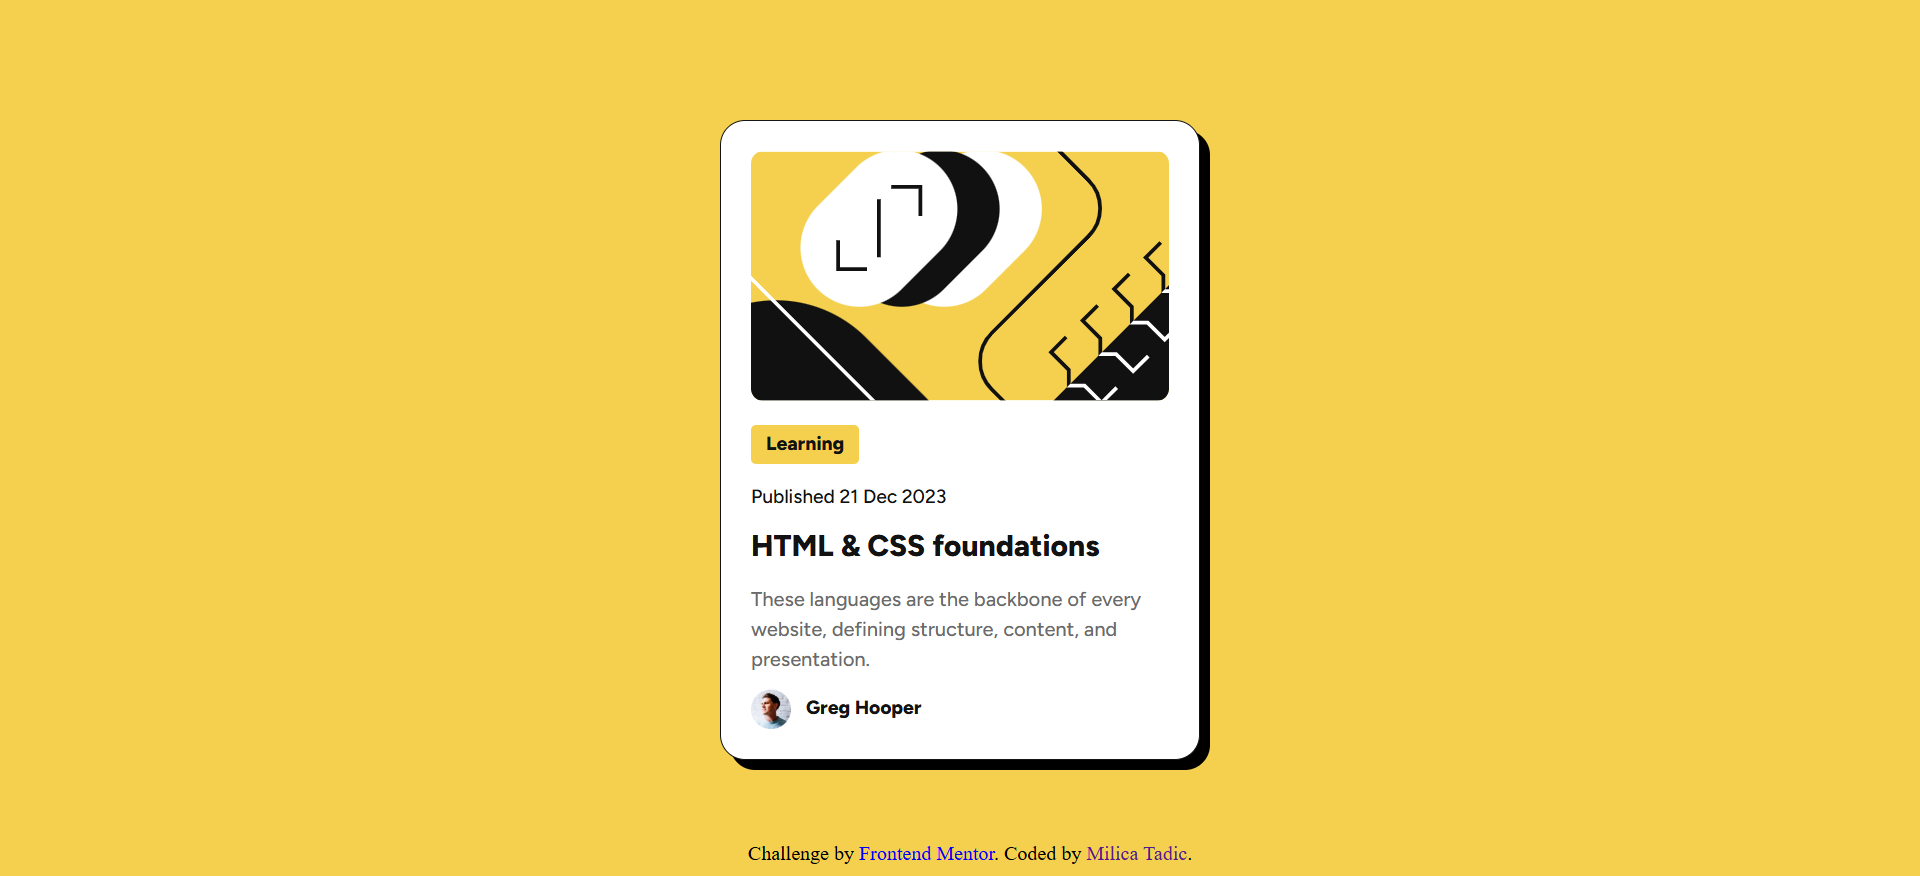
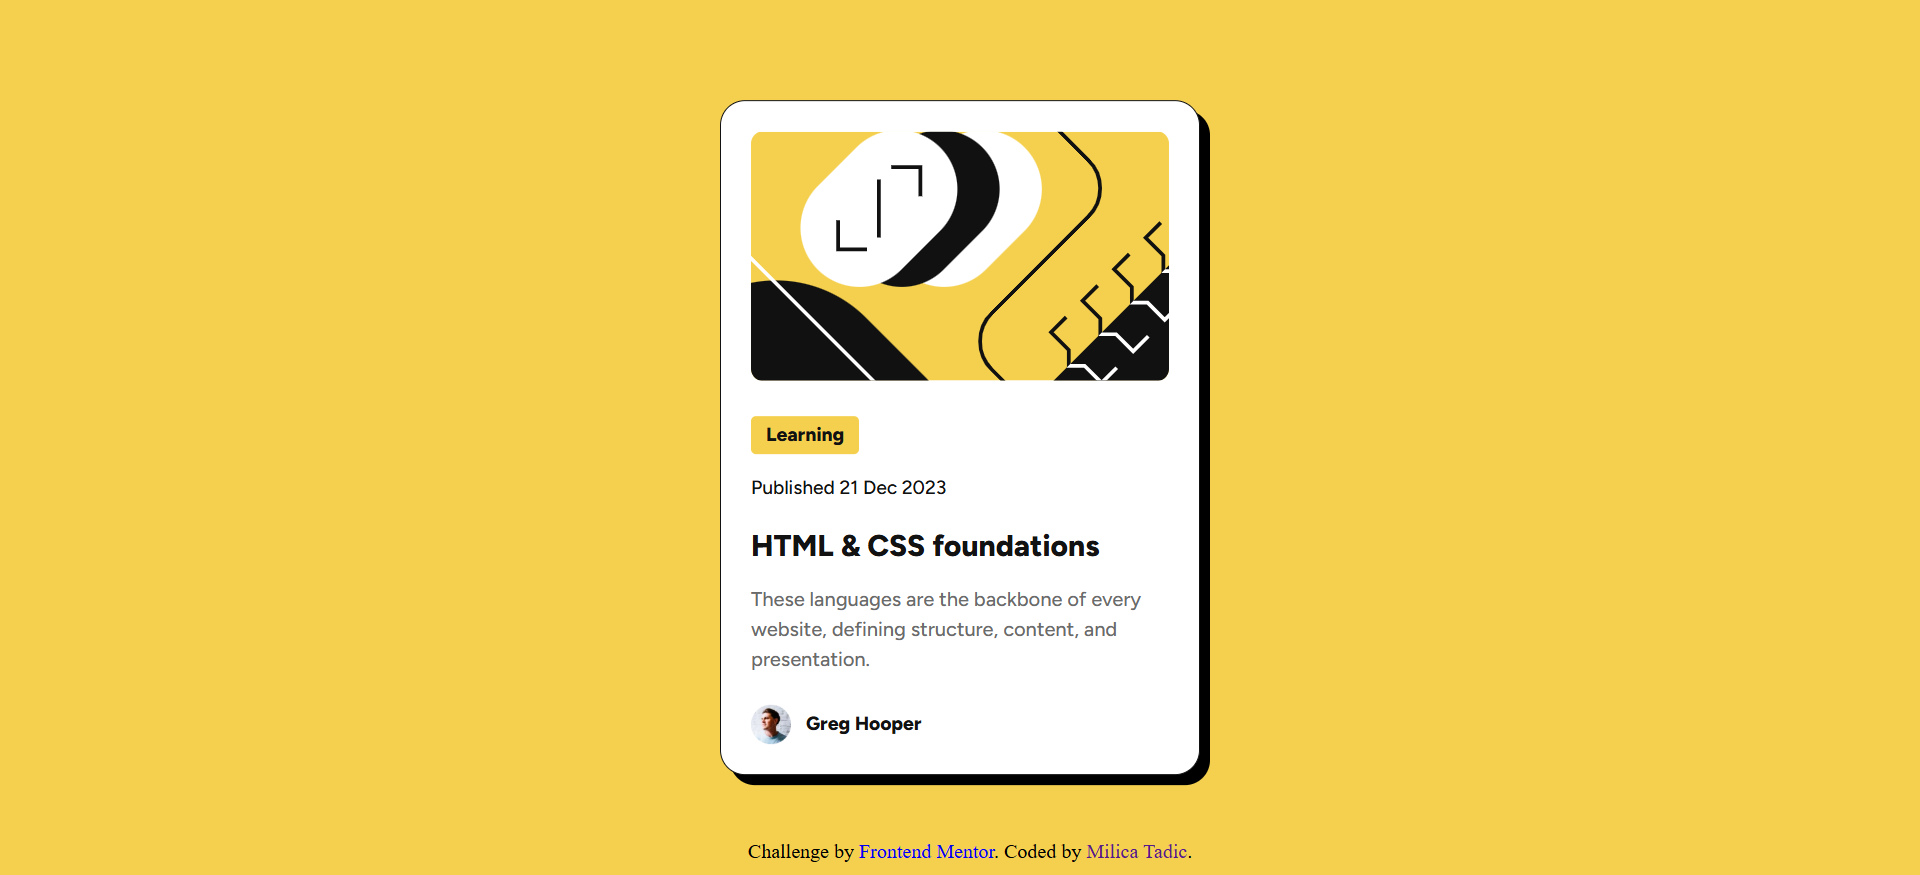
Fixed spacing between elements

diff --git a/styles.css b/styles.css
@@ -37,6 +37,7 @@ a:focus h1 {
 #illustration {
     border-radius: 0.625rem; 
     max-width: 100%;
+    margin-bottom: 1.5rem;
 }
 
 section > h1, section > p{
@@ -52,7 +53,6 @@ h1 {
     font-size: clamp(1.25rem, 3vw, 1.5rem);
     font-weight: 800;
     color: hsl(0, 0%, 7%);
-    margin-top: 0.75rem;
 }
 
 p {
@@ -70,6 +70,7 @@ p {
     padding: 0.25rem 0.75rem;
     border-radius: 0.25rem;
     width: fit-content;
+    margin-top: 0;
 }
 
 #description {
@@ -81,6 +82,7 @@ p {
     display: flex;
     height: 2rem;
     align-items: center;
+    margin-top: 1.5rem;
 }
 
 #avatar {
